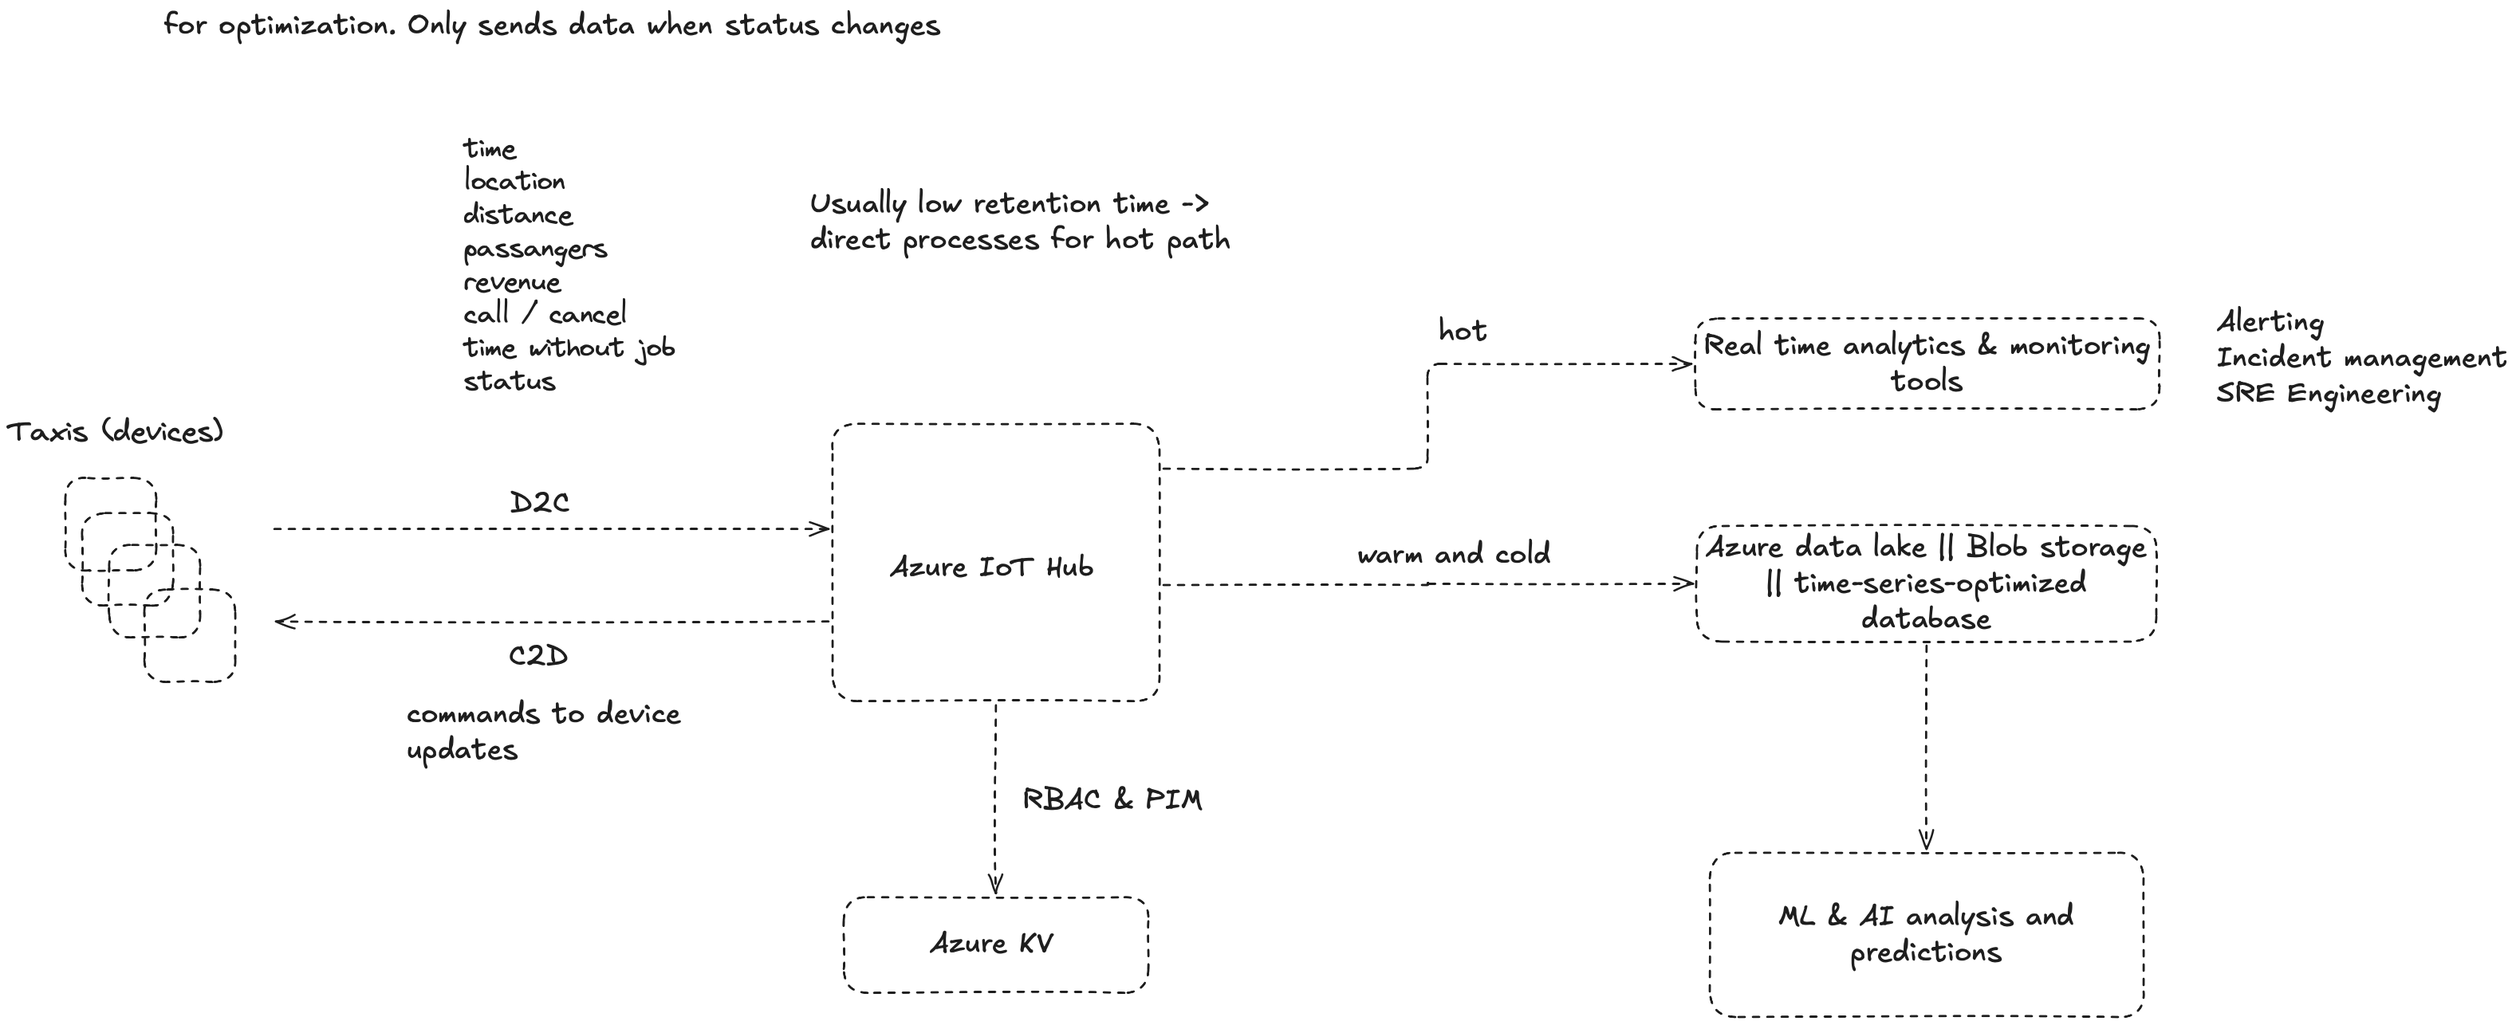
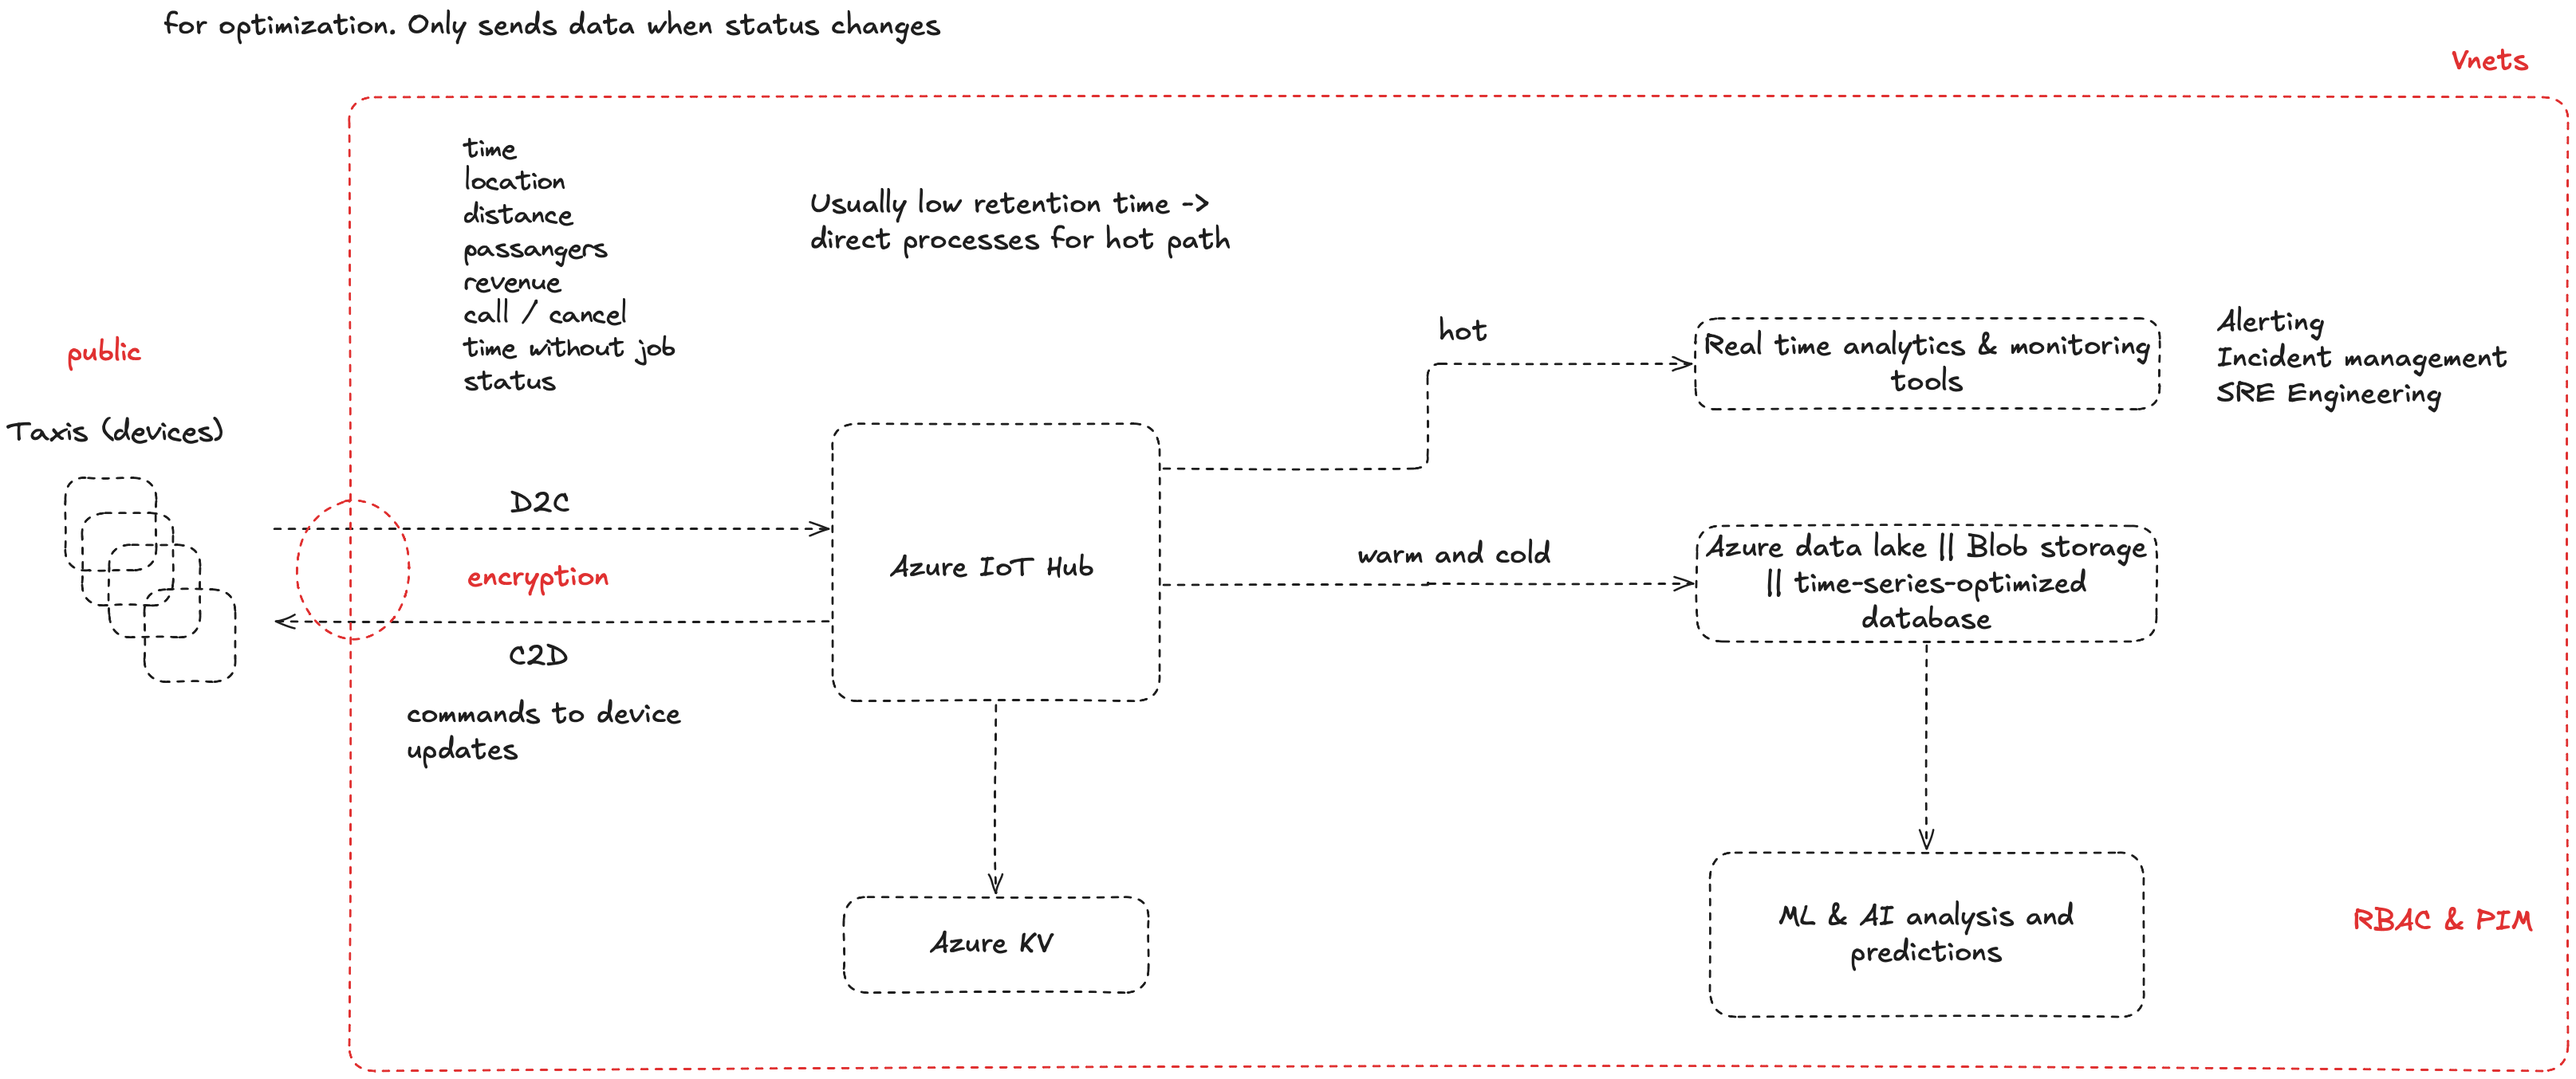
Ticket 2: kv and security (#2)
* Ticket-2: added new security features in architecture

* Ticket-2: WIP

* Ticket-2: Created KV and RBAC

* Ticket-2: Finished

diff --git a/2-automation/__main__.py b/2-automation/__main__.py
@@ -1,37 +1,54 @@
-import pulumi
-from pulumi_azure_native import resources
-from pulumi_azure_native import devices
+import pulumi, os, utils
+import pulumi_azure_native as an
 from iot_hub_devices import adding_devices_based_on_yaml
+from key_vault import KeyVault
+
+# TODO: Usually there would be a SP for the Pulumi Automation
+# TODO: Create utils function for naming conventions
+
+# ------------------------------------------------------------------ Init Config and ENV variables ------------------------------------------------------------------
 
 # Initialize Config for your project
 config = pulumi.Config("azure-native")
 location = config.get("location") or "West Europe"
 
-# Global tags
-tags = {
-    "environment": "dev",
-    "owner": "Fabian Brünger",
-}
+# Get ENV variables (mostly secrets) from environment variables
+principal_id = os.getenv("AZURE_CLIENT_ID")
+tenant_id = os.getenv("AZURE_TENANT_ID")
+env = os.getenv("ENVIRONMENT")
 
-# Create an Azure Resource Group
-resource_group = resources.ResourceGroup("rg-fb-sit-tmp",
+# Verify env. Must be either "dev" or "prod"
+if env not in ["dev", "prod"]:
+    raise ValueError(f"Unknown environment: {env}")
+
+# ------------------------------------------------------------------        Resource groups        ------------------------------------------------------------------
+resource_group = an.resources.ResourceGroup("rg-fb-sit-tmp",
                                             resource_group_name="rg-fb-sit-tmp",
-                                            location = location)
+                                            location = location,
+                                            tags = utils.get_tags(env))
 
+
+# ------------------------------------------------------------------        Resources              ------------------------------------------------------------------
 # Create Azure Key Vault for storing the connection strings
-# TODO: Create Key Vault
+key_vault = KeyVault.from_output(env, "kv-fb-sit-tmp", resource_group.name, resource_group.location, utils.get_tags(env), tenant_id)
 
 # Create the IoT Hub
-iot_hub = devices.IotHubResource("iothub-fb-sit-tmp",
+iot_hub = an.devices.IotHubResource("iothub-fb-sit-tmp",
                                     resource_group_name = resource_group.name,
                                     location = resource_group.location,
-                                    sku = devices.IotHubSkuInfoArgs(
+                                    sku = an.devices.IotHubSkuInfoArgs(
                                         name = "F1",
                                         capacity = 1),
-                                    properties = devices.IotHubPropertiesArgs(event_hub_endpoints={}),
-                                    tags = tags)
+                                    properties = an.devices.IotHubPropertiesArgs(event_hub_endpoints={}),
+                                    tags = utils.get_tags(env))
 
 # Add devices to the IoT Hub
 connection_strings = iot_hub.name.apply(adding_devices_based_on_yaml)
 
+# ------------------------------------------------------------------        Governance            ------------------------------------------------------------------
+# Key Vault Administrator for the Pulumi Service Principal (me)
+role_assignment_kv_pulumi_sp =  an.authorization.RoleAssignment("role-assignment-kv-pulumi-sp", principal_id=principal_id, role_definition_id="/providers/Microsoft.Authorization/roleDefinitions/00482a5a-887f-4fb3-b363-3b7fe8e74483", scope=key_vault.key_vault.id)
+
+# ------------------------------------------------------------------        Configuration            ------------------------------------------------------------------
+# TODO: Add function for syncing the connections strings to the key vault
 

diff --git a/2-automation/key_vault/keyvault.py b/2-automation/key_vault/keyvault.py
@@ -1,0 +1,78 @@
+import pulumi
+import pulumi_azure_native as an
+
+# Showcase a class setup for the Key Vault
+
+class KeyVault:
+    def __init__(self, environment: str, name: str, resource_group_name: str, location: str, tags: dict, tenant: str, opts: pulumi.ResourceOptions = None):
+        # Check which environment we are operating iin
+        if environment == "dev":
+            # Create the Azure Key Vault
+            self.key_vault = an.keyvault.Vault(name,
+                                                vault_name = name,
+                                                resource_group_name = resource_group_name,
+                                                location = location,
+                                                properties = an.keyvault.VaultPropertiesArgs(
+                                                    sku = an.keyvault.SkuArgs(
+                                                        family = "A",
+                                                        name = "standard"
+                                                    ),
+                                                    tenant_id = tenant,
+                                                    enable_rbac_authorization = True,
+                                                ),
+                                               tags = tags)
+
+        elif environment == "prod":
+            # Create the Azure Key Vault
+            self.key_vault = an.keyvault.Vault(name,
+                                                vault_name=name,
+                                                resource_group_name = resource_group_name,
+                                                location = location,
+                                                properties = an.keyvault.VaultPropertiesArgs(
+                                                    sku = an.keyvault.SkuArgs(
+                                                        family = "A",
+                                                        name = "premium"
+                                                    ),
+                                                    tenant_id = tenant,
+                                                    enable_rbac_authorization = True,
+                                                ),
+                                                tags = tags)
+        else:
+            raise ValueError(f"Unknown environment: {environment}")
+
+        # Expose outputs
+        self.name = self.key_vault.name
+        self.id = self.key_vault.id
+
+    @classmethod
+    def from_output(
+        cls,
+        environment: str,
+        name: str,
+        resource_group_name: pulumi.Output[str],
+        location: pulumi.Output[str],
+        tags: dict,
+        tenant: str,
+        opts: pulumi.ResourceOptions = None,
+    ):
+        """
+        Alternative constructor to handle Pulumi Output[str] for dynamic inputs.
+        """
+        def create_key_vault(args):
+            name_val, rg_val, loc_val, tags_val, tenant_val = args
+            return cls(
+                environment,
+                name=name_val,
+                resource_group_name=rg_val,
+                location=loc_val,
+                tags=tags_val,
+                tenant=tenant_val,
+                opts=opts,
+            )
+
+        return pulumi.Output.all(name, resource_group_name, location, tags, tenant).apply(create_key_vault)
+
+
+
+
+

diff --git a/2-automation/utils/tags.py b/2-automation/utils/tags.py
@@ -1,0 +1,7 @@
+def get_tags(environment: str) -> dict:
+    return {
+        "environment": environment,
+        "owner": "Fabian Brünger",
+        "cost-center": "123456",
+        "provided_by": "Pulumi Automation SP",
+    }

diff --git a/2-automation/key_vault/__init__.py b/2-automation/key_vault/__init__.py
@@ -1,0 +1,1 @@
+from .keyvault import KeyVault

diff --git a/2-automation/utils/__init__.py b/2-automation/utils/__init__.py
@@ -1,0 +1,1 @@
+from .tags import get_tags

diff --git a/README.md b/README.md
@@ -23,3 +23,18 @@ we place our taxis within the city throughout the day.
 ### Architecture
 
 ![Architecture](architecture_simplified.png)
+
+### Automation
+
+Please see my Pulumi stack here: [Pulumi Stack](2-automation)
+
+### Data Ex-filtration and Infiltration
+
+General rules:
+
+* Host the infrastructure / platform in private networks
+* Use RBAC and PIM to control access to the platform and data for developers (additionally use a VPN gateway)
+* Use managed identity for services to access other services
+* Use Azure Key Vault to store secrets
+* Use Azure Security Center to monitor and protect the platform
+* Verify the public access of the devices to the platform: encrypt the data in transit and handle access

diff --git a/2-automation/README.md b/2-automation/README.md
@@ -1,4 +1,5 @@
 # Pulumi
 
-1. az login
+1. az login (private subscription is used)
 2. pulumi logout azblob://pulumi-backend (not set up for the assignment stack) 
+3. pulumi up
